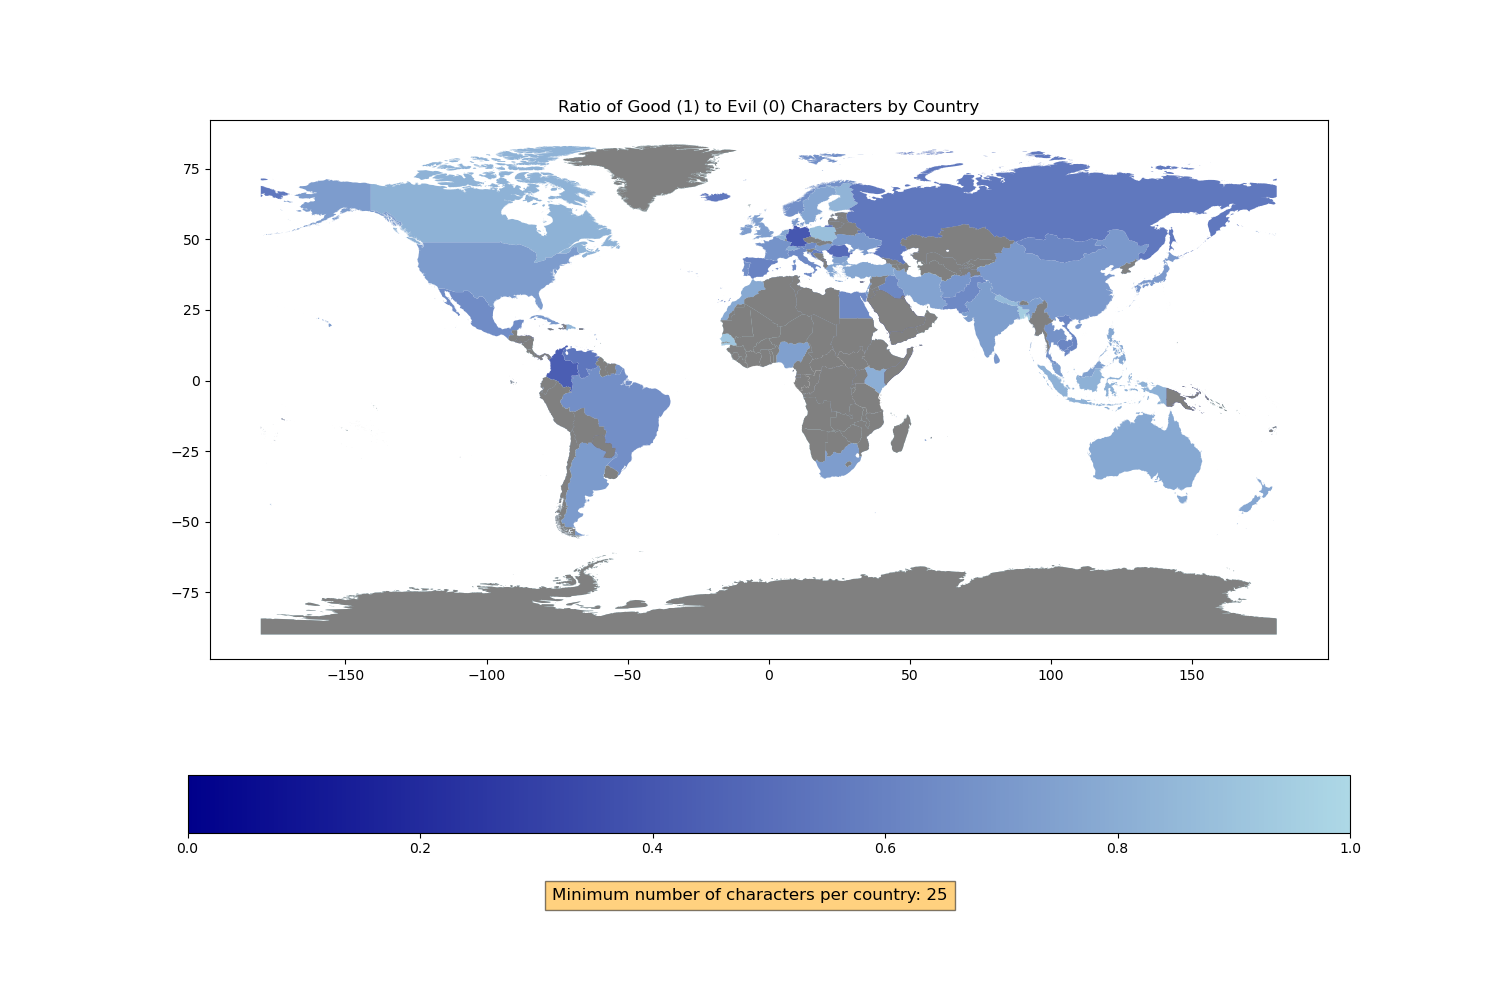
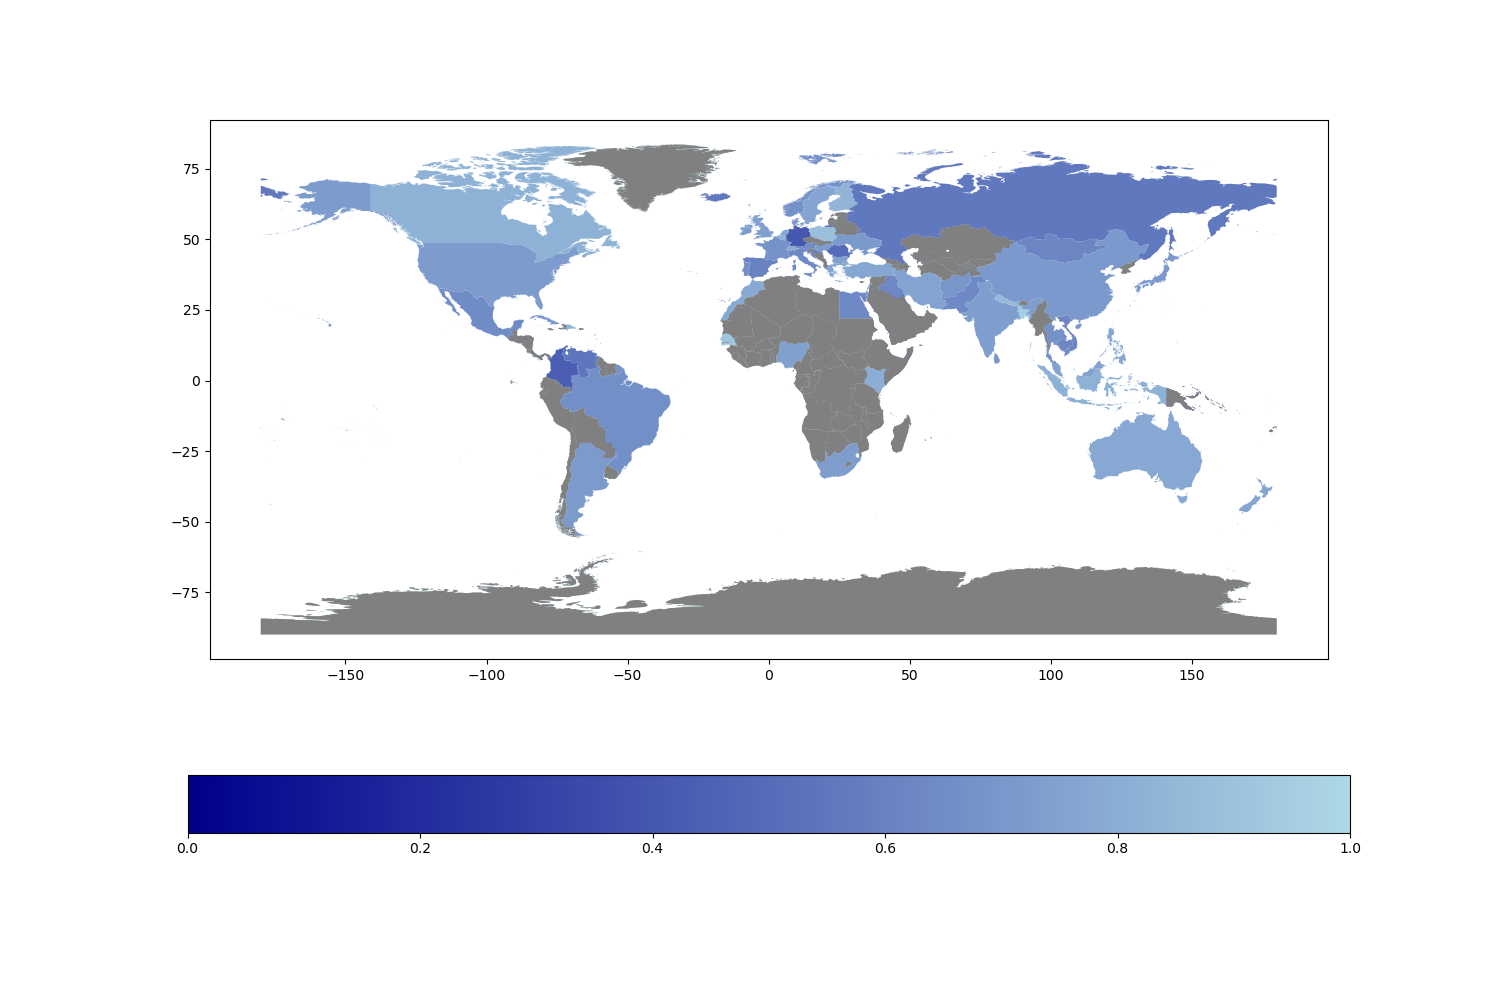
final alignment

Changed region(s): [[0.3373, 0.868, 0.644, 0.93], [0.368, 0.093, 0.644, 0.124]]

diff --git a/web/index.html b/web/index.html
@@ -509,59 +509,27 @@ We run this test on some stereotypical country-genre pairs to prove the statisti
             in films while ensuring that their portrayal isn't dominated by a few characters.
           </p>
 
-
-          <div id="image-container">
-            <div id="slider" style="width: 80%;">
-              <section id="image-carousel1" class="splide" aria-label="Beautiful Images">
-                <div class="splide__track">
-                  <ul class="splide__list">
-                    <li class="splide__slide">
-                      <img src="plots/map_for_k_1.png" alt="">
-                    </li>
-                      <li class="splide__slide">
-                      <img src="plots/map_for_k_5.png" alt="">
-                    </li>
-                      <li class="splide__slide">
-                      <img src="plots/map_for_k_10.png" alt="">
-                    </li>
-                      <li class="splide__slide">
-                      <img src="plots/map_for_k_25.png" alt="">
-                    </li>
-                      <li class="splide__slide">
-                      <img src="plots/map_for_k_50.png" alt="">
-                    </li>
-                      <li class="splide__slide">
-                      <img src="plots/map_for_k_200.png" alt="">
-                    </li>
-                      <li class="splide__slide">
-                      <img src="plots/map_for_k_400.png" alt="">
-                    </li>
-                      <li class="splide__slide">
-                      <img src="plots/map_for_k_800.png" alt="">
-                    </li>
-                  </ul>
-                </div>
-              </section>
-              </div>
-           </div>
-
           <br/><br/>
 
           <div id="threshold-container" class="container mx-auto my-4">
             <div class="flex justify-center">
-              <label for="threshold-selector" class="mr-2">Select a threshold:</label>
+              <label for="threshold-selector" class="mr-2">Select the minimum number of characters :</label>
               <select id="threshold-selector" class="block appearance-none w-full bg-gray-200 border border-gray-200 text-gray-700 py-3 px-4 pr-8 rounded leading-tight focus:outline-none focus:bg-white focus:border-gray-500" onchange="updateMap(this.value)">
                 <option value="1">1</option>
                 <option value="5">5</option>
                 <option value="10" selected>10</option>
                 <option value="25">25</option>
                 <option value="50">50</option>
+                <option value="100">100</option>
                 <option value="200">200</option>
+                <option value="400">400</option>
+                <option value="800">800</option>
               </select>
             </div>
           </div>
           
-          <div id="image-container">
+          <div id="image-container" style="text-align: center;">
+            <h2>Ratio of Good (1) to Evil (0) Characters by Country</h2>
             <img id="map-image" src="plots/map_for_k_10.png" alt="Map Visualization" style="width:100%;">
           </div>
           
